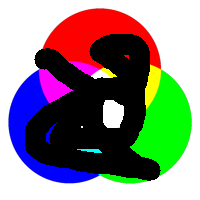
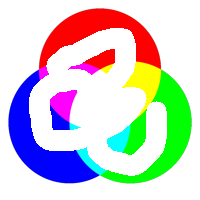
made the bg color to transparent for LoadPNG in io_manager.cc

diff --git a/src/io_manager.cc b/src/io_manager.cc
@@ -241,7 +241,7 @@ PixelBuffer *IOManager::LoadPNG(void) {
   if (png_image_begin_read_from_file(&image, file_name_.c_str()) != 0) {
     temp_buffer = new PixelBuffer(image.width,
                                   image.height,
-                                  ColorData(0.0, 0.0, 0.0));
+                                  ColorData(1.0, 1.0, 1.0, 0.0));
 
     png_bytep buffer;
     image.format = PNG_FORMAT_RGBA;
